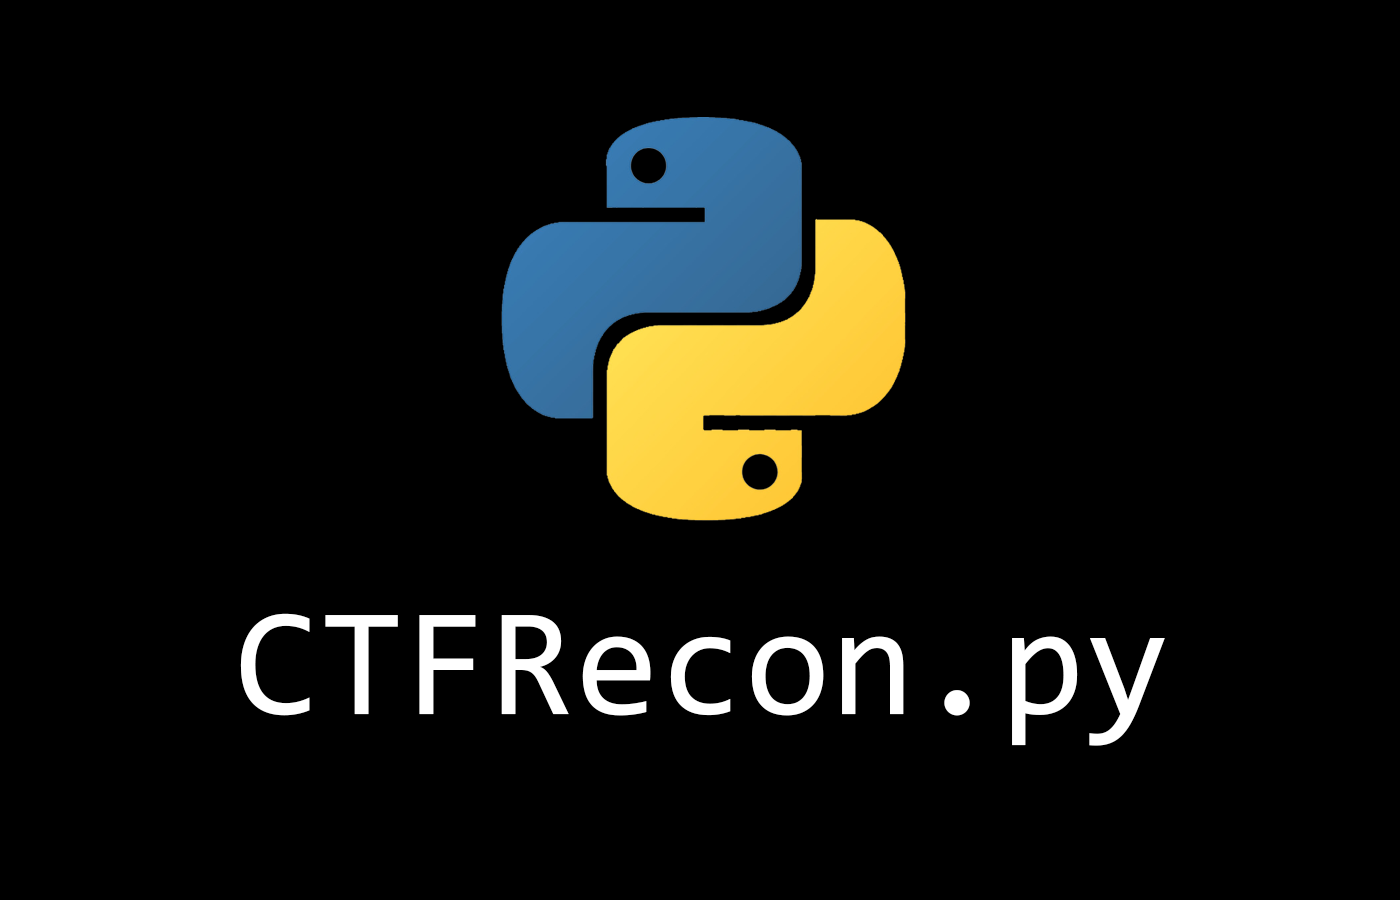
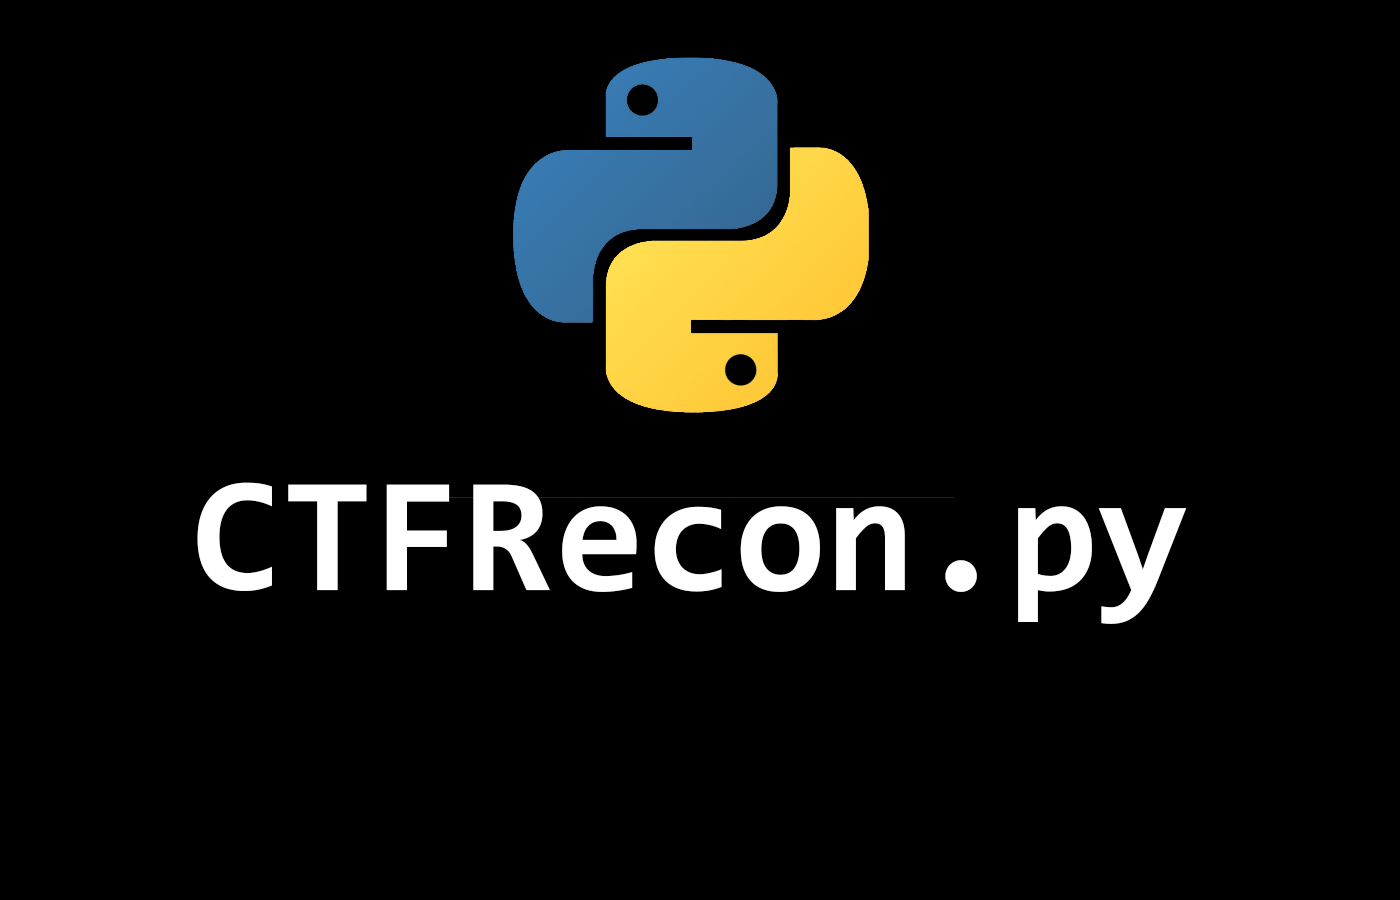
post update

diff --git a/_posts/2024-03-27-ctfrecon.py.md b/_posts/2024-03-27-ctfrecon.py.md
@@ -6,6 +6,7 @@ header:
   teaser: /docs/assets/images/teasers/projects/ctfrecon.png
   og_image: /docs/assets/images/teasers/projects/ctfrecon.png
   overlay_image: /docs/assets/images/teasers/projects/ctfrecon2.png
+  overlay_filter: 0.5
 author_profile: false
 share: false
 tags:
@@ -29,10 +30,10 @@ The tool has two run modes supplied by the user as arguments: `new` and `delete`
 `new` run mode:
 
 ```python
-sudo python3 CTFRecon.py new -ip 10.129.107.139 -name test`
+sudo python3 CTFRecon.py new -ip 10.129.107.139 -n test`
 ```
 
-- Requests target IP (`-ip`) and CTF name (`name`) as arguments.
+- Requests target IP (`-ip`) and CTF name (`n`) as arguments.
 - Creates a */home/username/CTFs/name* directory, requests a unique directory name until it's given.
 - Adds a new "IP-hostname.htb" entry to */etc/hosts* file for hostname resolution (since DNS server is not available).
 
@@ -49,7 +50,7 @@ If a webserver is not present, only runs **nmap** scan.
 `delete` run mode:
 
 ```python
-sudo python3 CTFRecon.py delete -name test
+sudo python3 CTFRecon.py delete -n test
 ```
 
 - If present, finds a CTF directory, deletes it along with its contents as well as a corresponding entry from */etc/hosts* file.
